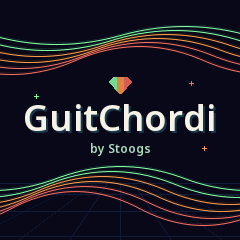
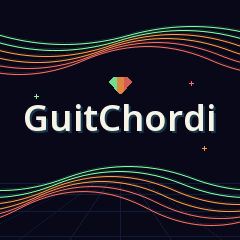
Remove byline and add hidden PLAY-hold acoustic chord loop

Changed region(s): [[0.0, 0.5833, 1.0, 0.9625], [0.0, 0.0875, 1.0, 0.3208]]

diff --git a/web/emu/manual/index.html b/web/emu/manual/index.html
@@ -1,3 +1,3 @@
 <!doctype html><html lang="en"><head><meta charset="utf-8"><meta name="viewport" content="width=device-width,initial-scale=1"><title>Guitchordi manual</title><style>
 :root{color-scheme:dark;font:16px/1.7 system-ui;background:#111b18;color:#e8f1ed}*{box-sizing:border-box}body{margin:0}main{max-width:1000px;margin:auto;padding:42px 28px 80px}a{color:#a3e0c5}header{padding:28px 0 30px;border-bottom:1px solid #42584a}h1{font-size:54px;letter-spacing:-2px;line-height:1.1;margin:16px 0}h2{font-size:30px;letter-spacing:-.8px;margin:7px 0 22px;line-height:1.3}h3{font-size:18px;color:#d9e9df;margin:25px 0 5px}p{color:#bacfc1;margin:0 0 15px}.eyebrow,.chapter{font-size:11px;letter-spacing:2px;color:#8cc8ad}.actions{display:flex;flex-wrap:wrap;gap:12px;margin-top:22px}.actions a{padding:9px 18px;border:1px solid #638370;border-radius:24px;text-decoration:none}nav{display:flex;flex-wrap:wrap;gap:10px 22px;padding:25px 0;font-size:13px}section{padding:36px 0;border-bottom:1px solid #344d3d;scroll-margin-top:24px}figure{margin:18px 0 28px;background:#18241e;border:1px solid #49624f;border-radius:12px;overflow:hidden}img{display:block;width:100%;height:auto}figcaption{font-size:11px;padding:10px 15px;color:#9db9a6}.note{padding:15px 19px;background:#28392d;border-left:3px solid #e1c273}footer{font-size:12px;color:#93ae9d;padding-top:30px}@media(max-width:600px){main{padding:20px}h1{font-size:40px}h2{font-size:25px}}@media print{:root{color-scheme:light;background:white;color:#14251b}p{color:#334d3c}nav,.actions{display:none}section{break-before:page}h3{color:#14251b}figure{break-inside:avoid}}
-</style></head><body><main><header><span class="eyebrow">PLAYER'S GUIDE / 26 OCTOBER 2026</span><h1>Guitchordi</h1><p>16 instruments. 50 chord styles. Sixteen direct contacts and fourteen ringing voices.</p><div class="actions"><a href="../">Back to instrument</a><a href="Guitchordi-Cheatsheet-A4.pdf" download>Current A4 cheatsheet</a></div></header><nav><a href="#start">Start playing</a><a href="#instruments">Change instrument and style</a><a href="#zones">Violin notes and playing zones</a><a href="#chords">Lock, edit and save</a><a href="#controls">Controls and keyboard shortcuts</a><a href="#hardware">Sound, headroom and troubleshooting</a></nav><p class="note">This guide covers the browser instrument and current FM-1 beta controls. The quiet beta works on the developer’s FM-1; broader hardware qualification is ongoing. Standard EADGBE remains the guitar default.</p><section id="start"><span class="chapter">01 / GUIDE</span><h2>Start playing</h2><figure><a href="images/01-overview.png"><img src="images/01-overview.png" alt="Guitchordi: Start playing"></a><figcaption>Live simulator screenshot. Open the image to inspect it at full resolution.</figcaption></figure><h3>Open and switch on</h3><p>Open the browser instrument, then click Switch on. Start with a comfortable MASTER level. Standard EADGBE remains the default guitar reference.</p><h3>Choose a chord, then play</h3><p>The eleven black keys choose chord slots. The strip above them shows every chord at all times; the LCD shows the selected chord. Tap or sweep the sixteen light keys to make sound. Only contacted keys attack; muted parts stay silent.</p><h3>Let it ring, or stop it</h3><p>Releasing a key leaves its natural, finite tail. Click Damp all strings, press Escape, or use PLAY to stop ringing notes. Mute output silences the speaker path while the instrument continues running.</p></section><section id="instruments"><span class="chapter">02 / GUIDE</span><h2>Change instrument and style</h2><figure><a href="images/02-instruments.png"><img src="images/02-instruments.png" alt="Guitchordi: Change instrument and style"></a><figcaption>Live simulator screenshot. Open the image to inspect it at full resolution.</figcaption></figure><h3>1. Choose the chord style first</h3><p>Use CHORD STYLE or turn PRESETS. There are fifty banks, including jazz, lo-fi, rock, blues, pop, soul and folk. A style loads its factory chords. Instrument, tuning, intensity and room remain independent.</p><h3>2. Choose the sound</h3><p>Use INSTRUMENT or turn ALGORITHM. The sixteen choices include Wood/Wire/Glow; nylon, steel, jumbo, palm-muted, clean, jazz, crunch and heavy guitars; harp, bowed violin, pizzicato cello, bass and dulcimer. Instrument changes affect future key contacts and create no attack.</p><h3>3. Keep your combination</h3><p>Press SAVE after choosing your bank, instrument and settings. In the browser this persists across reloads. Changing style again loads that bank&#x27;s factory chords while retaining the instrument and tuning.</p></section><section id="zones"><span class="chapter">03 / GUIDE</span><h2>Violin notes and playing zones</h2><figure><a href="images/03-violin-zones.png"><img src="images/03-violin-zones.png" alt="Guitchordi: Violin notes and playing zones"></a><figcaption>Live simulator screenshot. Open the image to inspect it at full resolution.</figcaption></figure><h3>Green: soft / keys 1-6</h3><p>Gentle attacks. Amber keys 7-12 give normal attacks; coral keys 13-16 give accented attacks. The coloured key tops, note lettering, active highlights and zone legend stay consistent. This is a simulated contact intensity, not measured pressure or bow speed.</p><h3>Four parts across sixteen contacts</h3><p>Violin and cello repeat four upper chord parts; bass repeats four lower parts. The violin key labels now show the actual sounding note and octave, such as D4. The same pitch can appear in several zones: play it softly, normally or with an accent. Hover for the note, part and physical key number.</p><h3>A bowed colour with a finite tail</h3><p>Bowed Violin uses a bounded periodic bow approximation and a gentle onset. Notes are capped at three seconds and releases retain the tail. It is a lightweight synthesis approximation, with no continuous bow-pressure control. The LCD shows note names and colours the last-played part for its zone.</p></section><section id="chords"><span class="chapter">04 / GUIDE</span><h2>Lock, edit and save</h2><figure><a href="images/04-lock-save.png"><img src="images/04-lock-save.png" alt="Guitchordi: Lock, edit and save"></a><figcaption>Live simulator screenshot. Open the image to inspect it at full resolution.</figcaption></figure><h3>Lock the chord</h3><p>Hold ENV for three uninterrupted seconds. The lock warms from orange to red as the hold completes. Releasing early cancels. Black keys, chord styles and slot edits are then blocked; instrument, master and transpose remain available. Hold ENV again to unlock.</p><h3>Edit a chord slot</h3><p>While unlocked, choose a black-key slot, press EDIT, then turn PRESETS to change its assigned voicing. Press SEL to confirm. Hold EDIT to choose a reset of this slot or all slots with PRESETS, then SEL to confirm; HOME cancels. The black-key labels, chord strip and LCD follow the actual assignment.</p><h3>Understand SAVE</h3><p>SAVE stores the active bank, its current slot edits, instrument and settings in this browser. It does not maintain fifty separately edited banks. Loading another style replaces current slots with its factory set. Reload restores the last save; ringing notes and held keys are never saved. Browser saves are specific to the website origin. SAVE on the FM-1 is RAM-only and does not persist across a power cycle.</p></section><section id="controls"><span class="chapter">05 / GUIDE</span><h2>Controls and keyboard shortcuts</h2><h3>Knobs</h3><p>MASTER: output level. SELECT: BPM. PRESETS: chord style, or assigned chord while EDIT is active. ALGORITHM: instrument. On Freeplay/FX, K1: intensity (50% standard); K2: transpose; K3: room; K4: saved voicing for the selected slot. In Strum/Arp, K1: pattern; K2: division; K3: gate (FREE default); K4: strum sweep or swing. Strum sweep is INSTANT, then 5-250 ms in 5 ms steps. Drag up/down, scroll, use arrow keys when focused, or press the minus/plus buttons.</p><h3>Panel buttons</h3><p>FX toggles tone controls/Home. ARP cycles Freeplay, Strum and Arp. GLO opens globals: K1 gate tails, K2 humanity, K3 tuning, K4 rhythm velocity. Hold GLO for three seconds for reset confirmation; SEL confirms, HOME cancels. HOME returns to play. OCT- and OCT+ transpose by an octave. PLAY damps sound. ENV held three seconds toggles lock. LFO, SEQ and REC are reserved.</p><h3>Computer keys</h3><p>String contacts, left to right: A S D F G H J K L ; &#x27; Z X C V B. Chord slots: Q W E R T Y U I O P [. Hold Space with page focus for the three-second ENV lock; Enter is SEL/OK. Escape damps. Focused buttons/keys also support Space or Enter. Repeated keydown events do not create repeated attacks.</p><h3>Two small details</h3><p>Switching off pauses audio; switching back on resumes the current session. Reloading boots from your last save. On a phone, landscape gives more room; the device panel can scroll horizontally.</p></section><section id="hardware"><span class="chapter">06 / GUIDE</span><h2>Sound, headroom and troubleshooting</h2><h3>Will the FM-1 sound like this?</h3><p>The browser and target firmware share the C instrument and fixed-point string model, with the same patch settings and 44.1 kHz design rate. That is a strong basis for the same core timbre. The corrected quiet beta boots on a real FM-1, and its maker reports audio and controls match the browser. Its output ceiling is deliberately conservative. Worst-case CPU load, all-instrument behavior and restoration still need qualification.</p><h3>Memory fits; CPU is still unknown</h3><p>Sixteen instruments are selectable patches, sharing fourteen voice slots. They are not sixteen simultaneous engines. The application, display buffers and reserved stacks fit the target linker layout. This is a build-time check. That does not measure real-time audio headroom or stack high-water usage. A 128-frame half-buffer allows about 2.90 ms at 44.1 kHz, including input handling and rendering. Real hardware must meet that deadline under the worst patch/voice load.</p><h3>Next device checks</h3><p>Recovery entry and a complete private backup were verified from Felucca. Installation into GuitChordi and an outgoing update have completed on the developer’s FM-1. Measure output rate, render times, missed buffers and stack depth across the instruments before a public release. Device SAVE remains RAM-only; actual restoration is still untested.</p><h3>If something seems wrong</h3><p>No sound: switch on, unmute and check MASTER. Missing notes: inspect muted keys and the selected voicing; four-part patches repeat notes. Wrong sound after changing style: reselect INSTRUMENT, then SAVE. Bank will not change: unlock with ENV and leave EDIT if active. Stuck or overly busy tails: Damp all strings or Escape. The simulator requires a 44.1 kHz AudioContext and reports startup failures beside Switch on.</p></section><footer>GuitChordi beta manual. Screenshots show the browser application and may depict an earlier layout. Worst-case hardware measurements remain pending. The browser guide uses the same C application as the experimental target build.</footer></main></body></html>
+</style></head><body><main><header><span class="eyebrow">PLAYER'S GUIDE / 26 OCTOBER 2026</span><h1>Guitchordi</h1><p>16 instruments. 50 chord styles. Sixteen direct contacts and fourteen ringing voices.</p><div class="actions"><a href="../">Back to instrument</a><a href="Guitchordi-Cheatsheet-A4.pdf" download>Current A4 cheatsheet</a></div></header><nav><a href="#start">Start playing</a><a href="#instruments">Change instrument and style</a><a href="#zones">Violin notes and playing zones</a><a href="#chords">Lock, edit and save</a><a href="#controls">Controls and keyboard shortcuts</a><a href="#hardware">Sound, headroom and troubleshooting</a></nav><p class="note">This guide covers the browser instrument and current FM-1 beta controls. The quiet beta works on the developer’s FM-1; broader hardware qualification is ongoing. Standard EADGBE remains the guitar default.</p><section id="start"><span class="chapter">01 / GUIDE</span><h2>Start playing</h2><figure><a href="images/01-overview.png"><img src="images/01-overview.png" alt="Guitchordi: Start playing"></a><figcaption>Live simulator screenshot. Open the image to inspect it at full resolution.</figcaption></figure><h3>Open and switch on</h3><p>Open the browser instrument, then click Switch on. Start with a comfortable MASTER level. Standard EADGBE remains the default guitar reference.</p><h3>Choose a chord, then play</h3><p>The eleven black keys choose chord slots. The strip above them shows every chord at all times; the LCD shows the selected chord. Tap or sweep the sixteen light keys to make sound. Only contacted keys attack; muted parts stay silent.</p><h3>Let it ring, or stop it</h3><p>Releasing a key leaves its natural, finite tail. Click Damp all strings, press Escape, or use PLAY to stop ringing notes. Mute output silences the speaker path while the instrument continues running.</p></section><section id="instruments"><span class="chapter">02 / GUIDE</span><h2>Change instrument and style</h2><figure><a href="images/02-instruments.png"><img src="images/02-instruments.png" alt="Guitchordi: Change instrument and style"></a><figcaption>Live simulator screenshot. Open the image to inspect it at full resolution.</figcaption></figure><h3>1. Choose the chord style first</h3><p>Use CHORD STYLE or turn PRESETS. There are fifty banks, including jazz, lo-fi, rock, blues, pop, soul and folk. A style loads its factory chords. Instrument, tuning, intensity and room remain independent.</p><h3>2. Choose the sound</h3><p>Use INSTRUMENT or turn ALGORITHM. The sixteen choices include Wood/Wire/Glow; nylon, steel, jumbo, palm-muted, clean, jazz, crunch and heavy guitars; harp, bowed violin, pizzicato cello, bass and dulcimer. Instrument changes affect future key contacts and create no attack.</p><h3>3. Keep your combination</h3><p>Press SAVE after choosing your bank, instrument and settings. In the browser this persists across reloads. Changing style again loads that bank&#x27;s factory chords while retaining the instrument and tuning.</p></section><section id="zones"><span class="chapter">03 / GUIDE</span><h2>Violin notes and playing zones</h2><figure><a href="images/03-violin-zones.png"><img src="images/03-violin-zones.png" alt="Guitchordi: Violin notes and playing zones"></a><figcaption>Live simulator screenshot. Open the image to inspect it at full resolution.</figcaption></figure><h3>Green: soft / keys 1-6</h3><p>Gentle attacks. Amber keys 7-12 give normal attacks; coral keys 13-16 give accented attacks. The coloured key tops, note lettering, active highlights and zone legend stay consistent. This is a simulated contact intensity, not measured pressure or bow speed.</p><h3>Four parts across sixteen contacts</h3><p>Violin and cello repeat four upper chord parts; bass repeats four lower parts. The violin key labels now show the actual sounding note and octave, such as D4. The same pitch can appear in several zones: play it softly, normally or with an accent. Hover for the note, part and physical key number.</p><h3>A bowed colour with a finite tail</h3><p>Bowed Violin uses a bounded periodic bow approximation and a gentle onset. Notes are capped at three seconds and releases retain the tail. It is a lightweight synthesis approximation, with no continuous bow-pressure control. The LCD shows note names and colours the last-played part for its zone.</p></section><section id="chords"><span class="chapter">04 / GUIDE</span><h2>Lock, edit and save</h2><figure><a href="images/04-lock-save.png"><img src="images/04-lock-save.png" alt="Guitchordi: Lock, edit and save"></a><figcaption>Live simulator screenshot. Open the image to inspect it at full resolution.</figcaption></figure><h3>Lock the chord</h3><p>Hold ENV for three uninterrupted seconds. The lock warms from orange to red as the hold completes. Releasing early cancels. Black keys, chord styles and slot edits are then blocked; instrument, master and transpose remain available. Hold ENV again to unlock.</p><h3>Edit a chord slot</h3><p>While unlocked, choose a black-key slot, press EDIT, then turn PRESETS to change its assigned voicing. Press SEL to confirm. Hold EDIT to choose a reset of this slot or all slots with PRESETS, then SEL to confirm; HOME cancels. The black-key labels, chord strip and LCD follow the actual assignment.</p><h3>Understand SAVE</h3><p>SAVE stores the active bank, its current slot edits, instrument and settings in this browser. It does not maintain fifty separately edited banks. Loading another style replaces current slots with its factory set. Reload restores the last save; ringing notes and held keys are never saved. Browser saves are specific to the website origin. SAVE on the FM-1 is RAM-only and does not persist across a power cycle.</p></section><section id="controls"><span class="chapter">05 / GUIDE</span><h2>Controls and keyboard shortcuts</h2><h3>Knobs</h3><p>MASTER: output level. SELECT: BPM. PRESETS: chord style, or assigned chord while EDIT is active. ALGORITHM: instrument. On Freeplay/FX, K1: intensity (50% standard); K2: transpose; K3: room; K4: saved voicing for the selected slot. In Strum/Arp, K1: pattern; K2: division; K3: gate (FREE default); K4: strum sweep or swing. Strum sweep is INSTANT, then 5-250 ms in 5 ms steps. Drag up/down, scroll, use arrow keys when focused, or press the minus/plus buttons.</p><h3>Panel buttons</h3><p>FX toggles tone controls/Home. ARP cycles Freeplay, Strum and Arp. GLO opens globals: K1 gate tails, K2 humanity, K3 tuning, K4 rhythm velocity. Hold GLO for three seconds for reset confirmation; SEL confirms, HOME cancels. HOME returns to play. OCT- and OCT+ transpose by an octave. PLAY damps sound. Hold PLAY five seconds for a hidden instrumental chord loop; tap PLAY again to stop. ENV held three seconds toggles lock. LFO, SEQ and REC are reserved.</p><h3>Computer keys</h3><p>String contacts, left to right: A S D F G H J K L ; &#x27; Z X C V B. Chord slots: Q W E R T Y U I O P [. Hold Space with page focus for the three-second ENV lock; Enter is SEL/OK. Escape damps. Focused buttons/keys also support Space or Enter. Repeated keydown events do not create repeated attacks.</p><h3>Two small details</h3><p>Switching off pauses audio; switching back on resumes the current session. Reloading boots from your last save. On a phone, landscape gives more room; the device panel can scroll horizontally.</p></section><section id="hardware"><span class="chapter">06 / GUIDE</span><h2>Sound, headroom and troubleshooting</h2><h3>Will the FM-1 sound like this?</h3><p>The browser and target firmware share the C instrument and fixed-point string model, with the same patch settings and 44.1 kHz design rate. That is a strong basis for the same core timbre. The corrected quiet beta boots on a real FM-1, and its maker reports audio and controls match the browser. Its output ceiling is deliberately conservative. Worst-case CPU load, all-instrument behavior and restoration still need qualification.</p><h3>Memory fits; CPU is still unknown</h3><p>Sixteen instruments are selectable patches, sharing fourteen voice slots. They are not sixteen simultaneous engines. The application, display buffers and reserved stacks fit the target linker layout. This is a build-time check. That does not measure real-time audio headroom or stack high-water usage. A 128-frame half-buffer allows about 2.90 ms at 44.1 kHz, including input handling and rendering. Real hardware must meet that deadline under the worst patch/voice load.</p><h3>Next device checks</h3><p>Recovery entry and a complete private backup were verified from Felucca. Installation into GuitChordi and an outgoing update have completed on the developer’s FM-1. Measure output rate, render times, missed buffers and stack depth across the instruments before a public release. Device SAVE remains RAM-only; actual restoration is still untested.</p><h3>If something seems wrong</h3><p>No sound: switch on, unmute and check MASTER. Missing notes: inspect muted keys and the selected voicing; four-part patches repeat notes. Wrong sound after changing style: reselect INSTRUMENT, then SAVE. Bank will not change: unlock with ENV and leave EDIT if active. Stuck or overly busy tails: Damp all strings or Escape. The simulator requires a 44.1 kHz AudioContext and reports startup failures beside Switch on.</p></section><footer>GuitChordi beta manual. Screenshots show the browser application and may depict an earlier layout. Worst-case hardware measurements remain pending. The browser guide uses the same C application as the experimental target build.</footer></main></body></html>

diff --git a/site/index.html b/site/index.html
@@ -3,21 +3,21 @@
 <head>
 <meta charset="utf-8"><meta name="viewport" content="width=device-width, initial-scale=1">
 <meta name="theme-color" content="#153a2d">
-<meta name="description" content="GuitChordi by Stoogs turns the M-VAVE FM-1 into a hands-on chord and string instrument. Try 16 instruments, 50 chord styles, strumming and arpeggios in your browser.">
+<meta name="description" content="GuitChordi turns the M-VAVE FM-1 into a hands-on chord and string instrument. Try 16 instruments, 50 chord styles, strumming and arpeggios in your browser.">
 <meta property="og:title" content="GuitChordi — Pick a chord. Find your groove.">
-<meta property="og:description" content="A playful, open-source chord instrument for the M-VAVE FM-1. By Stoogs.">
+<meta property="og:description" content="A playful, open-source chord instrument for the M-VAVE FM-1.">
 <meta property="og:type" content="website"><meta property="og:image" content="https://stoogs.github.io/guitchordi/assets/boot-screen.png">
 <title>GuitChordi — A little machine. A whole lot of strings.</title>
 <link rel="icon" href="assets/pick.svg" type="image/svg+xml"><link rel="stylesheet" href="site.css">
 </head>
 <body>
 <a class="skip" href="#main">Skip to content</a>
-<header class="masthead wrap"><a class="wordmark" href="./" aria-label="GuitChordi home"><img src="assets/pick.svg" alt="" width="25" height="29">GuitChordi<span>by Stoogs</span></a><nav aria-label="Main navigation"><a href="#sounds">The sounds</a><a href="manual/">How to play</a><a href="https://github.com/stoogs/guitchordi">GitHub ↗</a></nav><a class="nav-play" href="emu/">Let’s play <span aria-hidden="true">↗</span></a></header>
+<header class="masthead wrap"><a class="wordmark" href="./" aria-label="GuitChordi home"><img src="assets/pick.svg" alt="" width="25" height="29">GuitChordi</a><nav aria-label="Main navigation"><a href="#sounds">The sounds</a><a href="manual/">How to play</a><a href="https://github.com/stoogs/guitchordi">GitHub ↗</a></nav><a class="nav-play" href="emu/">Let’s play <span aria-hidden="true">↗</span></a></header>
 <main id="main">
 <section class="hero wrap">
 <div class="hero-copy"><p class="eyebrow"><span class="status-dot"></span> OPEN-SOURCE FIRMWARE · M-VAVE FM-1</p><h1>A little machine.<br>A whole lot<br>of <em>strings.</em></h1><p class="intro">Pick a chord. Brush the keys. Get lost in the groove.<br>Meet your FM-1’s softer, stringier side.</p><div class="actions"><a class="button primary" href="emu/"><span aria-hidden="true">▶</span> Play in browser</a><a class="text-link" href="#on-device">Meet the beta <span aria-hidden="true">↓</span></a></div><p class="micro">No download. No device needed. Sound starts when you switch on.</p></div>
 <div class="hero-art"><div class="orbit-label">SIX STRINGS / ENDLESS DETOURS</div><svg class="string-waves" viewBox="0 0 600 580" fill="none" aria-hidden="true"><g stroke-width="2.2"><path stroke="#75ac87" d="M-30 125C160-10 300 340 640 69"/><path stroke="#8db58b" d="M-30 151C160 16 300 366 640 95"/><path stroke="#c0be87" d="M-30 177C160 42 300 392 640 121"/><path stroke="#ddaa6a" d="M-30 203C160 68 300 418 640 147"/><path stroke="#dc8967" d="M-30 229C160 94 300 444 640 173"/><path stroke="#bd6c61" d="M-30 255C160 120 300 470 640 199"/></g></svg>
-<a class="pocket-device" href="emu/" aria-label="Open the GuitChordi browser instrument"><div class="device-cap"><span>GUIT / CHORD / STRUM</span><i></i><i></i><i></i></div><div class="device-face"><div class="mini-knobs"><b></b><small>PRESET</small><b></b><small>SOUND</small></div><img class="lcd" src="assets/boot-screen.png" width="240" height="240" alt="GuitChordi boot screen: six green, orange and red strings, GuitChordi by Stoogs"><div class="mini-buttons"><i></i><i></i><i></i><i></i><i></i><i></i></div></div><div class="mini-keyboard" aria-hidden="true"><b></b><b></b><b></b><b></b><b></b><b></b><b></b><b></b><b></b><b></b><b></b><b></b><b></b><b></b><b></b><b></b></div></a><div class="art-caption"><span class="small-star">✳</span> A chord companion.<br><span>Not another menu to get lost in.</span></div></div>
+<a class="pocket-device" href="emu/" aria-label="Open the GuitChordi browser instrument"><div class="device-cap"><span>GUIT / CHORD / STRUM</span><i></i><i></i><i></i></div><div class="device-face"><div class="mini-knobs"><b></b><small>PRESET</small><b></b><small>SOUND</small></div><img class="lcd" src="assets/boot-screen.png" width="240" height="240" alt="GuitChordi boot screen: six green, orange and red strings, GuitChordi"><div class="mini-buttons"><i></i><i></i><i></i><i></i><i></i><i></i></div></div><div class="mini-keyboard" aria-hidden="true"><b></b><b></b><b></b><b></b><b></b><b></b><b></b><b></b><b></b><b></b><b></b><b></b><b></b><b></b><b></b><b></b></div></a><div class="art-caption"><span class="small-star">✳</span> A chord companion.<br><span>Not another menu to get lost in.</span></div></div>
 </section>
 <div class="spec-strip"><div class="wrap"><span><strong>16</strong> instruments</span><span><strong>50</strong> chord styles</span><span><strong>14</strong> guitar tunings</span><span>Freeplay <i>/</i> Strum <i>/</i> Arp</span></div></div>
 <section id="sounds" class="sounds wrap section"><div class="section-heading"><p class="eyebrow">01 / FIND YOUR COLOUR</p><h2>From Sunday nylon<br>to after-hours jazz.</h2><p>A steel-string shimmer. A mellow jazz guitar. A little harp, a little violin. Sixteen instrument colours to find a sound that feels like you.</p></div><div class="sound-explorer"><div class="sound-tabs" role="tablist" aria-label="Explore instrument families"><button role="tab" id="tab-guitars" aria-selected="true" aria-controls="sound-panel" data-family="guitars">The guitars <span>01</span></button><button role="tab" id="tab-strings" aria-selected="false" aria-controls="sound-panel" tabindex="-1" data-family="strings">Beyond guitar <span>02</span></button><button role="tab" id="tab-glow" aria-selected="false" aria-controls="sound-panel" tabindex="-1" data-family="glow">A little electric <span>03</span></button></div><div class="sound-panel" id="sound-panel" role="tabpanel" aria-labelledby="tab-guitars" tabindex="0"><span class="pick-mark" aria-hidden="true">✦</span><p class="eyebrow" id="sound-kicker">YOUR FIRST CHORD</p><h3 id="sound-title">Steel Acoustic</h3><p id="sound-description">Bright attack, warm body, and strings that keep ringing. The factory starting point, ready for an unhurried strum.</p><p class="sound-list" id="sound-list">Nylon · Steel · Jumbo · Palm-muted · Clean · Jazz</p><a href="emu/">Try the instruments <span aria-hidden="true">↗</span></a><small>These are synthesized instrument colours, not sampled recordings. Switch on the browser instrument to hear them.</small></div></div></section>
@@ -26,6 +26,6 @@
 <section id="on-device" class="beta-section wrap"><div class="beta-stamp">ON THE<br>REAL THING <span>↗</span></div><div><p class="eyebrow">GUIT / CHORDI / BETA</p><h2>Small machine.<br>Real strings attached.</h2><p>The quiet beta has been played on an actual FM-1, with controls and audio confirmed by its maker. We’re still checking sustained load, every instrument and restoration before a public firmware release.</p><p>Browser saves persist in your browser. Device SAVE currently lasts for the powered session. Standard EADGBE is the default; alternative tunings are independent of your instrument and chord style.</p><div class="actions"><a class="button light" href="https://github.com/stoogs/guitchordi">Follow the beta on GitHub ↗</a><a class="text-link" href="https://github.com/stoogs/guitchordi/blob/main/docs/fm1-audio-incident.md">Read the hardware notes</a></div><small>Public firmware download and installation will follow qualification. This page does not flash your device.</small></div></section>
 <section class="last-call wrap"><p class="eyebrow">YOUR NEXT GOOD CHORD IS IN HERE SOMEWHERE.</p><h2>Go on. Have a strum.</h2><a class="button primary" href="emu/"><span aria-hidden="true">▶</span> Play in browser</a></section>
 </main>
-<footer class="site-footer wrap"><a class="wordmark" href="./">GuitChordi<span>by Stoogs</span></a><p>Made for playing. Shared for tinkering.<br>GPL-3.0-only · upstream notices retained · no warranty.</p><nav aria-label="Footer navigation"><a href="https://github.com/stoogs/guitchordi">Source ↗</a><a href="licenses.html">Credits &amp; licenses</a><a href="https://thefirmwarehub.com/">The Firmware Hub ↗</a></nav><small>Independent community firmware for M-VAVE FM-1. Not affiliated with M-VAVE or The Firmware Hub.</small></footer>
+<footer class="site-footer wrap"><a class="wordmark" href="./">GuitChordi</a><p>Made for playing. Shared for tinkering.<br>GPL-3.0-only · upstream notices retained · no warranty.</p><nav aria-label="Footer navigation"><a href="https://github.com/stoogs/guitchordi">Source ↗</a><a href="licenses.html">Credits &amp; licenses</a><a href="https://thefirmwarehub.com/">The Firmware Hub ↗</a></nav><small>Independent community firmware for M-VAVE FM-1. Not affiliated with M-VAVE or The Firmware Hub.</small></footer>
 <script type="module" src="site.mjs"></script>
 </body></html>

diff --git a/firmware/app.c b/firmware/app.c
@@ -34,6 +34,8 @@ static int play_mode,bpm=90,tempo_edit, rhythm[2][4]={{0,9,4,10},{0,9,4,0}};
 static int gate_tails,humanity=2,tuning,rhythm_velocity=80;
 static uint32_t sample_clock,next_tick,step_fraction,rhythm_step,rhythm_rng=0x8769u;
 static int auto_running,queued;
+static int egg_active,play_fired;
+static uint32_t play_started,egg_step;
 static uint32_t auto_blocked;
 typedef struct { uint32_t due; int part,pitch,tone,character,gate; float strength; } auto_note;
 static auto_note auto_notes[6];
@@ -43,7 +45,8 @@ static const char *const play_names[]={"Freeplay","Strum","Arp"};
 static const char *const division_names[]={"1/1","1/1D","1/1T","1/2","1/2D","1/2T","1/4","1/4D","1/4T","1/8","1/8D","1/8T","1/16","1/16D","1/16T","1/32","1/32D","1/32T"};
 static const char *const strum_names[]={"DOWN","UP","ALTERNATE","BLOCK","BASS+CHORD","SHUFFLE"};
 static const char *const arp_names[]={"UP","DOWN","UP-DOWN","DOWN-UP","OUTSIDE-IN","RANDOM"};
-static void rhythm_cancel(void) { auto_running=queued=0; gm_auto_stop(); }
+static void rhythm_cancel(void) { auto_running=queued=egg_active=0; gm_auto_stop(); }
+int fw_easter_egg(void) { return egg_active; }
 int fw_play_mode(void) { return play_mode; }
 int fw_bpm(void) { return bpm; }
 int fw_gate_tails(void) { return gate_tails; }
@@ -57,7 +60,7 @@ const char *fw_tuning_label(void) { return tuning_labels[tuning]; }
 int fw_open_pitch(int part) { return part>=0 && part<6?tuning_opens[tuning][part]:-1; }
 int fw_tempo_edit(void) { return tempo_edit; }
 int fw_rhythm_param(int i) { return i>=0 && i<4 ? rhythm[play_mode==2][i] : -1; }
-int fw_running(void) { return auto_running || queued; }
+int fw_running(void) { return auto_running || queued || egg_active; }
 int fw_lock_progress(void) { return (buttons&(1u<<2)) ? (clock_ms-hold_started>=3000?1000:(int)((clock_ms-hold_started)/3)) : (locked?1000:0); }
 static uint32_t rhythm_random(void) { rhythm_rng^=rhythm_rng<<13; rhythm_rng^=rhythm_rng>>17; rhythm_rng^=rhythm_rng<<5; return rhythm_rng; }
 static void rhythm_fire(auto_note *n) {
@@ -121,13 +124,33 @@ static void rhythm_tick(void) {
     rhythm_step++;
 }
 static void rhythm_start(void) { rhythm_cancel();auto_running=1;rhythm_step=step_fraction=0;rhythm_tick(); }
+/* Hidden acoustic chord-loop nod: common B / F# / E / B harmony, not a
+ * transcription of the song's melody or a recording. Keep normal settings. */
+static const uint8_t egg_chords[4][6]={
+    {47,54,59,63,66,71},{42,49,54,58,61,66},
+    {40,47,52,56,59,64},{47,54,59,63,66,71}
+};
+static const char *const egg_names[]={"B","F#","E","B"};
+static void egg_tick(void) {
+    uint32_t chord=(egg_step/8u)%4u;
+    next_tick=sample_clock+GM_RATE*60u/(88u*2u);
+    queued=6;
+    for(int i=0;i<6;i++) {
+        int part=(egg_step&1u)?5-i:i;
+        auto_notes[i]=(auto_note){sample_clock+(uint32_t)i*GM_RATE/200u,
+            part,egg_chords[chord][part],4,50,0,.42f};
+    }
+    egg_step++;
+}
 static float *rhythm_render(int frames) {
     int done=0;
     while(done<frames) {
-        if(auto_running && (int32_t)(sample_clock-next_tick)>=0) rhythm_tick();
+        if((auto_running || egg_active) && (int32_t)(sample_clock-next_tick)>=0) {
+            if(egg_active)egg_tick();else rhythm_tick();
+        }
         while(queued && (int32_t)(sample_clock-auto_notes[0].due)>=0) { rhythm_fire(&auto_notes[0]);for(int i=1;i<queued;i++)auto_notes[i-1]=auto_notes[i];queued--; }
         int count=frames-done;
-        if(auto_running && (uint32_t)(next_tick-sample_clock)<(uint32_t)count)count=(int)(next_tick-sample_clock);
+        if((auto_running || egg_active) && (uint32_t)(next_tick-sample_clock)<(uint32_t)count)count=(int)(next_tick-sample_clock);
         if(queued && (uint32_t)(auto_notes[0].due-sample_clock)<(uint32_t)count)count=(int)(auto_notes[0].due-sample_clock);
         if(count<1)continue;
         float *samples=gm_render(count);memcpy(auto_output+done,samples,(unsigned)count*sizeof(float));
@@ -231,7 +254,7 @@ int fw_key_pitch(int key) {
     int pitch=fw_slot_pitch(selected,string_of(key));
     return pitch<0 ? -1 : gm_pitch(tone,pitch+transpose);
 }
-void fw_panic(void) { boot_visible=0; auto_blocked=0;for(int i=0;i<11;i++)auto_blocked|=keys&(1u<<black[i]);auto_running=queued=0; gm_reset(); memset(room_line, 0, sizeof room_line); room_cursor = 0; keys = buttons = 0; lock_fired = edit_fired = 0; reset_choice = -1; }
+void fw_panic(void) { boot_visible=0; auto_blocked=0;for(int i=0;i<11;i++)auto_blocked|=keys&(1u<<black[i]);auto_running=queued=egg_active=0;play_fired=1; gm_reset(); memset(room_line, 0, sizeof room_line); room_cursor = 0; keys = buttons = 0; lock_fired = edit_fired = 0; reset_choice = -1; }
 static void defaults(void) {
     fw_panic(); memcpy(slots, mode_slots[16], sizeof slots); memset(slot_shapes,0,sizeof slot_shapes);
     selected = 0; locked = page = editing = transpose = 0;tone=4;mode=16;
@@ -243,6 +266,7 @@ static void defaults(void) {
 void fw_boot(void) {
     defaults(); attacks=store_version=clock_ms=hold_started=clock_remainder=0;
     global_started=0;global_fired=factory_reset=0;reset_key_blocked=0;boot_visible=1;
+    play_started=egg_step=0;play_fired=0;
     memset(settings,0,sizeof settings);
 }
 void fw_keys(uint32_t mask) {
@@ -352,7 +376,13 @@ void fw_button(int button, int down) {
     case 5: page=page==3?0:3;editing=tempo_edit=0;reset_choice=-1;break;                       // GLO: global performance settings
     case 6: tempo_edit=0;page = 0; editing = 0; reset_choice=-1; break;
     case 7: save(); break;
-    case 10: fw_panic(); break;                    // PLAY/STOP repurposed as damp, no transport
+    case 10: {
+        uint32_t held_buttons=buttons,held_keys=keys;
+        int stopping=egg_active;
+        fw_panic();buttons=held_buttons;keys=held_keys;
+        play_started=clock_ms;play_fired=stopping;
+        break; // Immediate damp; a fresh five-second hold can start the egg.
+    }
     case 12: transpose = bound(transpose - 12, -12, 12); break;
     case 13: transpose = bound(transpose + 12, -12, 12); break;
     default: break;                               // reserved controls cannot invent notes
@@ -389,11 +419,17 @@ void fw_master(int value) { if(factory_reset)return; int next=bound(value,0,100)
 float *fw_render(int frames) {
     if(frames<1 || frames>GM_BLOCK)return 0;
     float *samples;
-    if(play_mode || queued || auto_running) samples=rhythm_render(frames);else { samples=gm_render(frames);sample_clock+=(uint32_t)frames; }
+    if(play_mode || queued || auto_running || egg_active) samples=rhythm_render(frames);else { samples=gm_render(frames);sample_clock+=(uint32_t)frames; }
     if (!samples) return 0;
     clock_remainder += (uint32_t)frames * 1000u;
     clock_ms += clock_remainder / GM_RATE;
     clock_remainder %= GM_RATE;
+    if(!factory_reset && reset_choice<0 && (buttons&(1u<<10)) && !play_fired && clock_ms-play_started>=5000u) {
+        uint32_t held_buttons=buttons,held_keys=keys;
+        fw_panic();buttons=held_buttons;keys=held_keys;
+        egg_active=play_fired=1;egg_step=0;next_tick=sample_clock;
+        memset(samples,0,(unsigned)frames*sizeof(float));
+    }
     if (!factory_reset && (buttons & (1u << 2)) && !lock_fired && clock_ms - hold_started >= 3000) {
         locked = !locked; lock_fired = 1; reset_choice=-1;
     }
@@ -423,7 +459,7 @@ uint32_t fw_muted(void) {
     for (int i = 0; i < 16; i++) if (fw_slot_pitch(selected,string_of(i)) < 0) mask |= 1u << white[i];
     return mask;
 }
-uint32_t fw_buttons(void) { return buttons | (locked ? 1u << 2 : 0) | (tempo_edit?1u<<3:0) | (play_mode?1u<<8:0) | (page==2?1u:0) | (page==3?1u<<5:0); }
+uint32_t fw_buttons(void) { return buttons | (locked ? 1u << 2 : 0) | (tempo_edit?1u<<3:0) | (play_mode?1u<<8:0) | (page==2?1u:0) | (page==3?1u<<5:0) | (egg_active?1u<<10:0); }
 static void rect(int x, int y, int w, int h, uint16_t color) {
     for (int row = y; row < y + h && row < 240; row++) for (int col = x; col < x + w && col < 240; col++)
         if (row >= 0 && col >= 0) framebuffer[row * 240 + col] = color;
@@ -553,7 +589,6 @@ static uint16_t *boot_frame(void) {
     boot_spark(36,96,green);boot_spark(204,148,orange);boot_spark(191,83,red);
     display_text(121,133,"GuitChordi",36,0x19c9);
     display_text(119,131,"GuitChordi",36,0xf79c);
-    display_text(120,153,"by Stoogs",12,0xaed7);
     return framebuffer;
 }
 #ifdef GM_FM1
@@ -594,10 +629,10 @@ uint16_t *fw_frame(void) {
     column_value(80,52,gm_tone_name(tone),orange);
     column_value(160,52,play_names[play_mode],mint);
     text(175,64,"BPM",1,dim);number(200,64,bpm,1,orange);
-    const char *chord = chord_names[slots[selected]];
+    const char *chord = egg_active?egg_names[egg_step?((egg_step-1u)/8u)%4u:0]:chord_names[slots[selected]];
     int chord_width=rhythm_controls?112:148, chord_center=rhythm_controls?60:80;
     int title_size=!rhythm_controls && display_width(chord,display_glyphs_36)<=chord_width?36:display_width(chord,display_glyphs_26)<=chord_width?26:18;
-    display_text(chord_center,85,tuning_labels[tuning],12,mint);
+    display_text(chord_center,85,egg_active?"YELLOW / LOOP":tuning_labels[tuning],12,mint);
     display_text(chord_center,114,chord,title_size,white_ink);
     rect(rhythm_controls?120:160,77,1,41,0x2166);
     if(rhythm_controls) {

diff --git a/scripts/build-manual.py b/scripts/build-manual.py
@@ -23,7 +23,7 @@ PAGES=[
  ('Understand SAVE','SAVE stores the active bank, its current slot edits, instrument and settings in this browser. It does not maintain fifty separately edited banks. Loading another style replaces current slots with its factory set. Reload restores the last save; ringing notes and held keys are never saved. Browser saves are specific to the website origin. SAVE on the FM-1 is RAM-only and does not persist across a power cycle.')]),
  ('controls','Controls and keyboard shortcuts',None,[
  ('Knobs','MASTER: output level. SELECT: BPM. PRESETS: chord style, or assigned chord while EDIT is active. ALGORITHM: instrument. On Freeplay/FX, K1: intensity (50% standard); K2: transpose; K3: room; K4: saved voicing for the selected slot. In Strum/Arp, K1: pattern; K2: division; K3: gate (FREE default); K4: strum sweep or swing. Strum sweep is INSTANT, then 5-250 ms in 5 ms steps. Drag up/down, scroll, use arrow keys when focused, or press the minus/plus buttons.'),
- ('Panel buttons','FX toggles tone controls/Home. ARP cycles Freeplay, Strum and Arp. GLO opens globals: K1 gate tails, K2 humanity, K3 tuning, K4 rhythm velocity. Hold GLO for three seconds for reset confirmation; SEL confirms, HOME cancels. HOME returns to play. OCT- and OCT+ transpose by an octave. PLAY damps sound. ENV held three seconds toggles lock. LFO, SEQ and REC are reserved.'),
+ ('Panel buttons','FX toggles tone controls/Home. ARP cycles Freeplay, Strum and Arp. GLO opens globals: K1 gate tails, K2 humanity, K3 tuning, K4 rhythm velocity. Hold GLO for three seconds for reset confirmation; SEL confirms, HOME cancels. HOME returns to play. OCT- and OCT+ transpose by an octave. PLAY damps sound. Hold PLAY five seconds for a hidden instrumental chord loop; tap PLAY again to stop. ENV held three seconds toggles lock. LFO, SEQ and REC are reserved.'),
  ('Computer keys','String contacts, left to right: A S D F G H J K L ; \' Z X C V B. Chord slots: Q W E R T Y U I O P [. Hold Space with page focus for the three-second ENV lock; Enter is SEL/OK. Escape damps. Focused buttons/keys also support Space or Enter. Repeated keydown events do not create repeated attacks.'),
  ('Two small details','Switching off pauses audio; switching back on resumes the current session. Reloading boots from your last save. On a phone, landscape gives more room; the device panel can scroll horizontally.')]),
  ('hardware','Sound, headroom and troubleshooting',None,[

diff --git a/tests/easter_egg_host.c b/tests/easter_egg_host.c
@@ -1,0 +1,40 @@
+/* SPDX-License-Identifier: GPL-3.0-only */
+#include <assert.h>
+#include <math.h>
+#include <stdio.h>
+#include <string.h>
+#include "../firmware/app.h"
+#include "../dsp/engine.h"
+static void render(int frames,int held) {
+    while(frames>0) {
+        int n=frames>128?128:frames;
+        if(held)fw_button(10,1); /* physical scanner repeats the held level */
+        float *p=fw_render(n);
+        for(int i=0;i<n;i++)assert(isfinite(p[i]) && fabsf(p[i])<=.98f);
+        frames-=n;
+    }
+}
+int main(int argc,char **argv) {
+    assert(argc==2);fw_boot();fw_button(10,1);
+    render(5*GM_RATE-1,1);assert(!fw_easter_egg());assert(fw_attacks()==0);
+    render(1,1);assert(fw_easter_egg());
+    render(6*GM_RATE,1);assert(fw_easter_egg() && fw_attacks()>90);
+    fw_button(10,0);fw_button(10,1);assert(!fw_easter_egg() && !gm_active());
+    render(6*GM_RATE,1);assert(!fw_easter_egg() && !gm_active());
+    fw_button(10,0);fw_button(10,1);render(5*GM_RATE,1);assert(fw_easter_egg());
+    fw_button(10,0);fw_button(7,1);fw_button(7,0);
+    uint32_t saved[FW_STORE_WORDS];memcpy(saved,fw_store(),sizeof saved);
+    fw_boot();memcpy(fw_store(),saved,sizeof saved);assert(fw_restore() && !fw_easter_egg());
+    fw_button(5,1);render(3*GM_RATE,0);assert(fw_factory_reset_menu());
+    fw_button(10,1);render(6*GM_RATE,1);assert(!fw_easter_egg());
+    /* Native/WASM deterministic capture covers more than one 4-bar loop. */
+    fw_boot();fw_button(10,1);render(5*GM_RATE,1);fw_button(10,0);
+    FILE *f=fopen(argv[1],"wb");assert(f);
+    for(int block=0;block<5000;block++) {
+        float *p=fw_render(128);for(int i=0;i<128;i++)assert(isfinite(p[i]) && fabsf(p[i])<=.98f);
+        assert(fwrite(p,sizeof(float),128,f)==128);
+    }
+    fclose(f);assert(fw_easter_egg() && gm_active()<=GM_VOICES);
+    fw_panic();assert(!fw_easter_egg() && !gm_active());
+    puts("Easter egg: exact hold threshold, repeated scan input, stop/rearm, no restore/reset autoplay and finite loop passed");
+}

diff --git a/firmware/app.h b/firmware/app.h
@@ -13,6 +13,7 @@ void fw_master(int value);
 void fw_audio_diagnostics(uint32_t max_us,uint32_t late,unsigned master,uint32_t invalid);
 #endif
 void fw_panic(void);
+int fw_easter_egg(void);
 float *fw_render(int frames);
 uint16_t *fw_frame(void);
 uint32_t fw_lights(void);

diff --git a/docs/progress.md b/docs/progress.md
@@ -1,3 +1,20 @@
+## Byline removal, hidden loop and Pages deployment — 26 October 2026
+
+Removed the public “by Stoogs” byline from the site and C boot screen, retaining
+legal credits and repository ownership. Hold PLAY for five seconds for a quiet
+instrumental B / F# / E / B chord-loop nod to Yellow at 88 BPM; tap PLAY again to
+stop immediately. It uses synthesized steel-acoustic chords, without a song
+melody, lyrics or recording. Normal tone/style/tuning settings are retained.
+The active PLAY LED and YELLOW / LOOP LCD caption indicate playback. The Easter
+egg is not saved. Holding the stop press cannot immediately restart it.
+Native, UBSan and WASM checks pass, including repeated physical scan levels,
+threshold, stop/rearm, mute, restore/reset behavior and 640,000 exact matching
+native/WASM samples across a loop. The working device audio ceiling is unchanged.
+The updated hardware candidate is built separately; no new flash is authorized
+by this website deployment. GitHub Pages settings were configured by the agent
+with explicit user authorization after the user signed in. Website deployment
+is pending validation below; no firmware release or Hub submission is included.
+
 ## LED installation and GitHub Pages website — 26 October 2026
 
 The user approved the LED update; the installer completed and returned running

diff --git a/docs/website.md b/docs/website.md
@@ -39,7 +39,7 @@ private-file exclusions. The codebase's 17 unit tests also pass.
    at `https://stoogs.github.io/guitchordi/emu/`.
 
 The workflow is intentionally manual. A source push does not create a website
-or firmware release. No hosting settings were changed during local preparation.
+or firmware release. Pages was subsequently configured to use GitHub Actions with explicit user authorization. Publication status is recorded with the current deployment evidence.
 Official references: [GitHub Pages static hosting](https://docs.github.com/en/pages/getting-started-with-github-pages/what-is-github-pages),
 [custom Pages workflows](https://docs.github.com/en/pages/getting-started-with-github-pages/using-custom-workflows-with-github-pages).
 
@@ -47,7 +47,7 @@ Official references: [GitHub Pages static hosting](https://docs.github.com/en/pa
 
 Suggested card copy:
 
-> GuitChordi by Stoogs turns the M-VAVE FM-1 into a chord and string instrument,
+> GuitChordi turns the M-VAVE FM-1 into a chord and string instrument,
 > with 16 instrument colours, 50 chord styles, editable voicings, and Freeplay,
 > Strum and Arp modes. Try the shared C instrument in your browser, then explore
 > the FM-1 beta as device qualification progresses.
